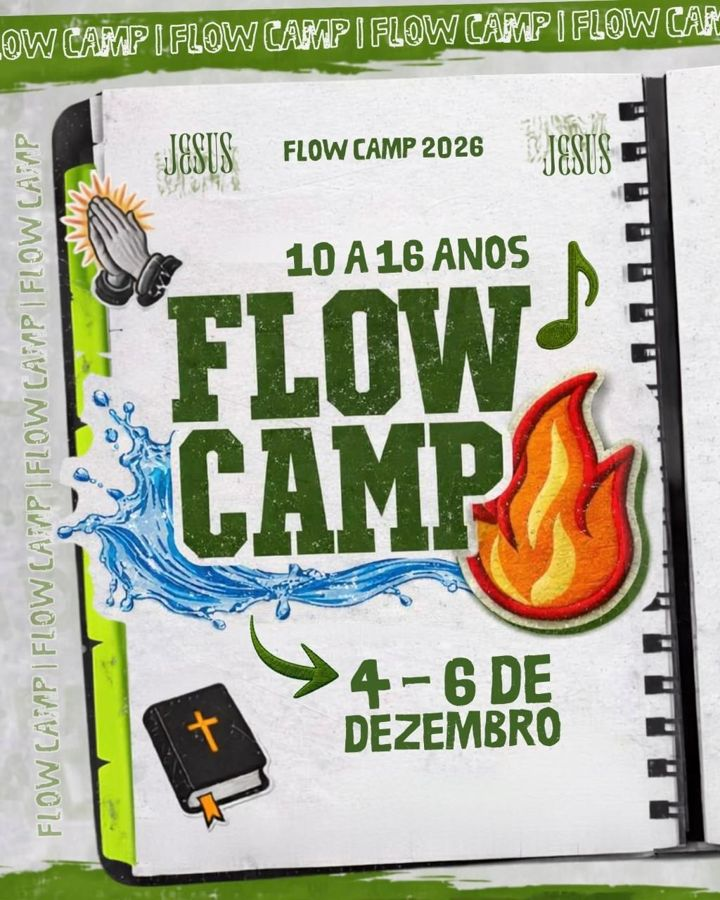
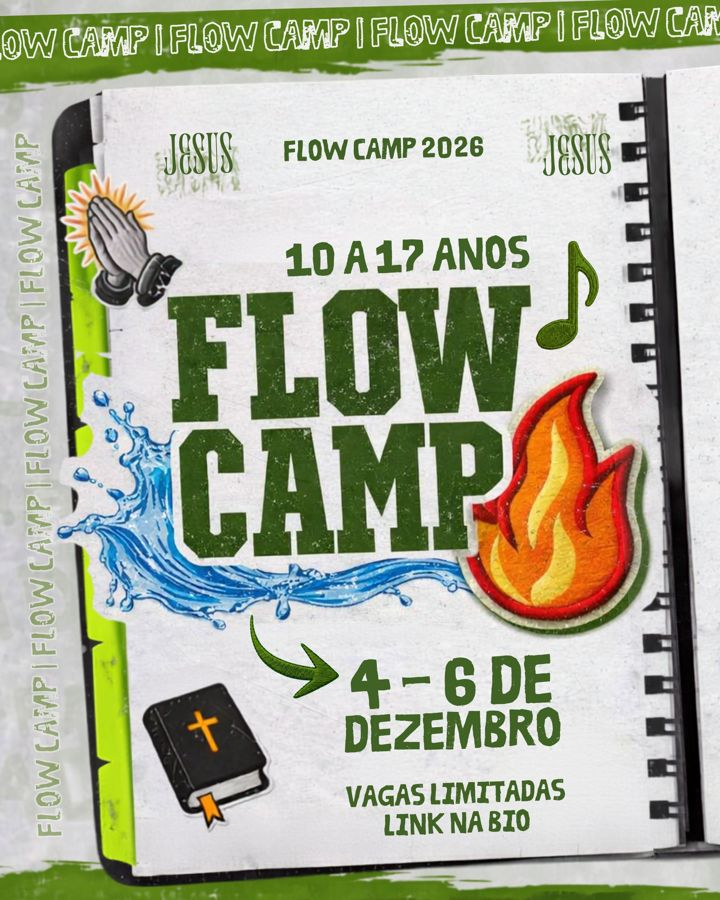
Flow Camp: arte nova (10 a 17 anos) no sistema, no formulário e no cartaz
Claude-Session: https://claude.ai/code/session_016TdtaeUPkNzYv2FFrzJSkH

diff --git a/flowcamp/index.html b/flowcamp/index.html
@@ -150,7 +150,7 @@ a.btn{text-decoration:none;display:inline-block}
 <main>
   <!-- RESUMO -->
   <section class="view on" id="v-painel">
-    <div class="capa"><img src="/flowcamp/arte.jpg" alt="Arte do Flow Camp 2026"><div><h2>FLOW CAMP 2026</h2><div class="hint">4 a 6 de dezembro · 10 a 16 anos</div><div class="cd" id="contagem"></div></div></div>
+    <div class="capa"><img src="/flowcamp/arte.jpg?v=2" alt="Arte do Flow Camp 2026"><div><h2>FLOW CAMP 2026</h2><div class="hint">4 a 6 de dezembro · 10 a 17 anos</div><div class="cd" id="contagem"></div></div></div>
     <div class="kpis" id="kpis"></div>
     <div class="row" style="margin-bottom:6px">
       <button class="btn zap" id="zapBtn" type="button">📲 Mensagem do que falta (WhatsApp)</button>
@@ -237,7 +237,7 @@ a.btn{text-decoration:none;display:inline-block}
 <!-- Login -->
 <div id="login">
   <form class="box" id="loginForm">
-    <img class="arte" src="/flowcamp/arte.jpg" alt="Flow Camp 2026">
+    <img class="arte" src="/flowcamp/arte.jpg?v=2" alt="Flow Camp 2026">
     <h2 style="text-align:center">Organização do Flow Camp</h2>
     <label class="lb" for="lEmail">E-mail</label>
     <input id="lEmail" class="field" type="email" autocomplete="username" required>

diff --git a/ajudar/index.html b/ajudar/index.html
@@ -1,6 +1,6 @@
 <!doctype html><html lang="pt-BR"><head><meta charset="utf-8"><meta name="viewport" content="width=device-width, initial-scale=1">
 <title>Quero ajudar · Flow Camp 2026</title>
 <meta name="description" content="Ajude o Flow Camp 2026 (4 a 6 de dezembro): seja voluntário nas refeições ou doe o que precisamos.">
-<meta property="og:title" content="Quero ajudar · Flow Camp 2026"><meta property="og:description" content="Seja voluntário nas refeições ou doe o que precisamos."><meta property="og:image" content="https://voufluir.joao-m2ldigital.workers.dev/flowcamp/arte.jpg">
+<meta property="og:title" content="Quero ajudar · Flow Camp 2026"><meta property="og:description" content="Seja voluntário nas refeições ou doe o que precisamos."><meta property="og:image" content="https://voufluir.joao-m2ldigital.workers.dev/flowcamp/arte.jpg?v=2">
 <meta http-equiv="refresh" content="0;url=/flowcamp/ajudar/"><script>location.replace('/flowcamp/ajudar/'+location.hash)</script></head>
 <body style="background:#efefea;font-family:system-ui"><p style="text-align:center;margin-top:40px"><a href="/flowcamp/ajudar/">Abrir o formulário do Flow Camp</a></p></body></html>

diff --git a/flowcamp/ajudar/index.html b/flowcamp/ajudar/index.html
@@ -8,7 +8,7 @@
 <meta name="description" content="Ajude o Flow Camp 2026 (4 a 6 de dezembro): seja voluntário nas refeições ou doe o que estamos precisando.">
 <meta property="og:title" content="Quero ajudar · Flow Camp 2026">
 <meta property="og:description" content="Seja voluntário nas refeições ou doe o que precisamos. 4 a 6 de dezembro.">
-<meta property="og:image" content="https://voufluir.joao-m2ldigital.workers.dev/flowcamp/arte.jpg">
+<meta property="og:image" content="https://voufluir.joao-m2ldigital.workers.dev/flowcamp/arte.jpg?v=2">
 <link rel="icon" type="image/png" href="/favicon.png">
 <link rel="apple-touch-icon" href="/logo.png">
 <link rel="preconnect" href="https://fonts.googleapis.com">
@@ -76,7 +76,7 @@ label.lb,.lb{display:block;font-size:14px;font-weight:600;margin:16px 0 6px}
 </head>
 <body>
 <div class="topo">
-  <img src="/flowcamp/arte.jpg" alt="Flow Camp 2026 — 4 a 6 de dezembro">
+  <img src="/flowcamp/arte.jpg?v=2" alt="Flow Camp 2026 — 4 a 6 de dezembro">
   <h1>QUERO AJUDAR!</h1>
   <p>Seja voluntário nas refeições ou doe o que precisamos</p>
 </div>
